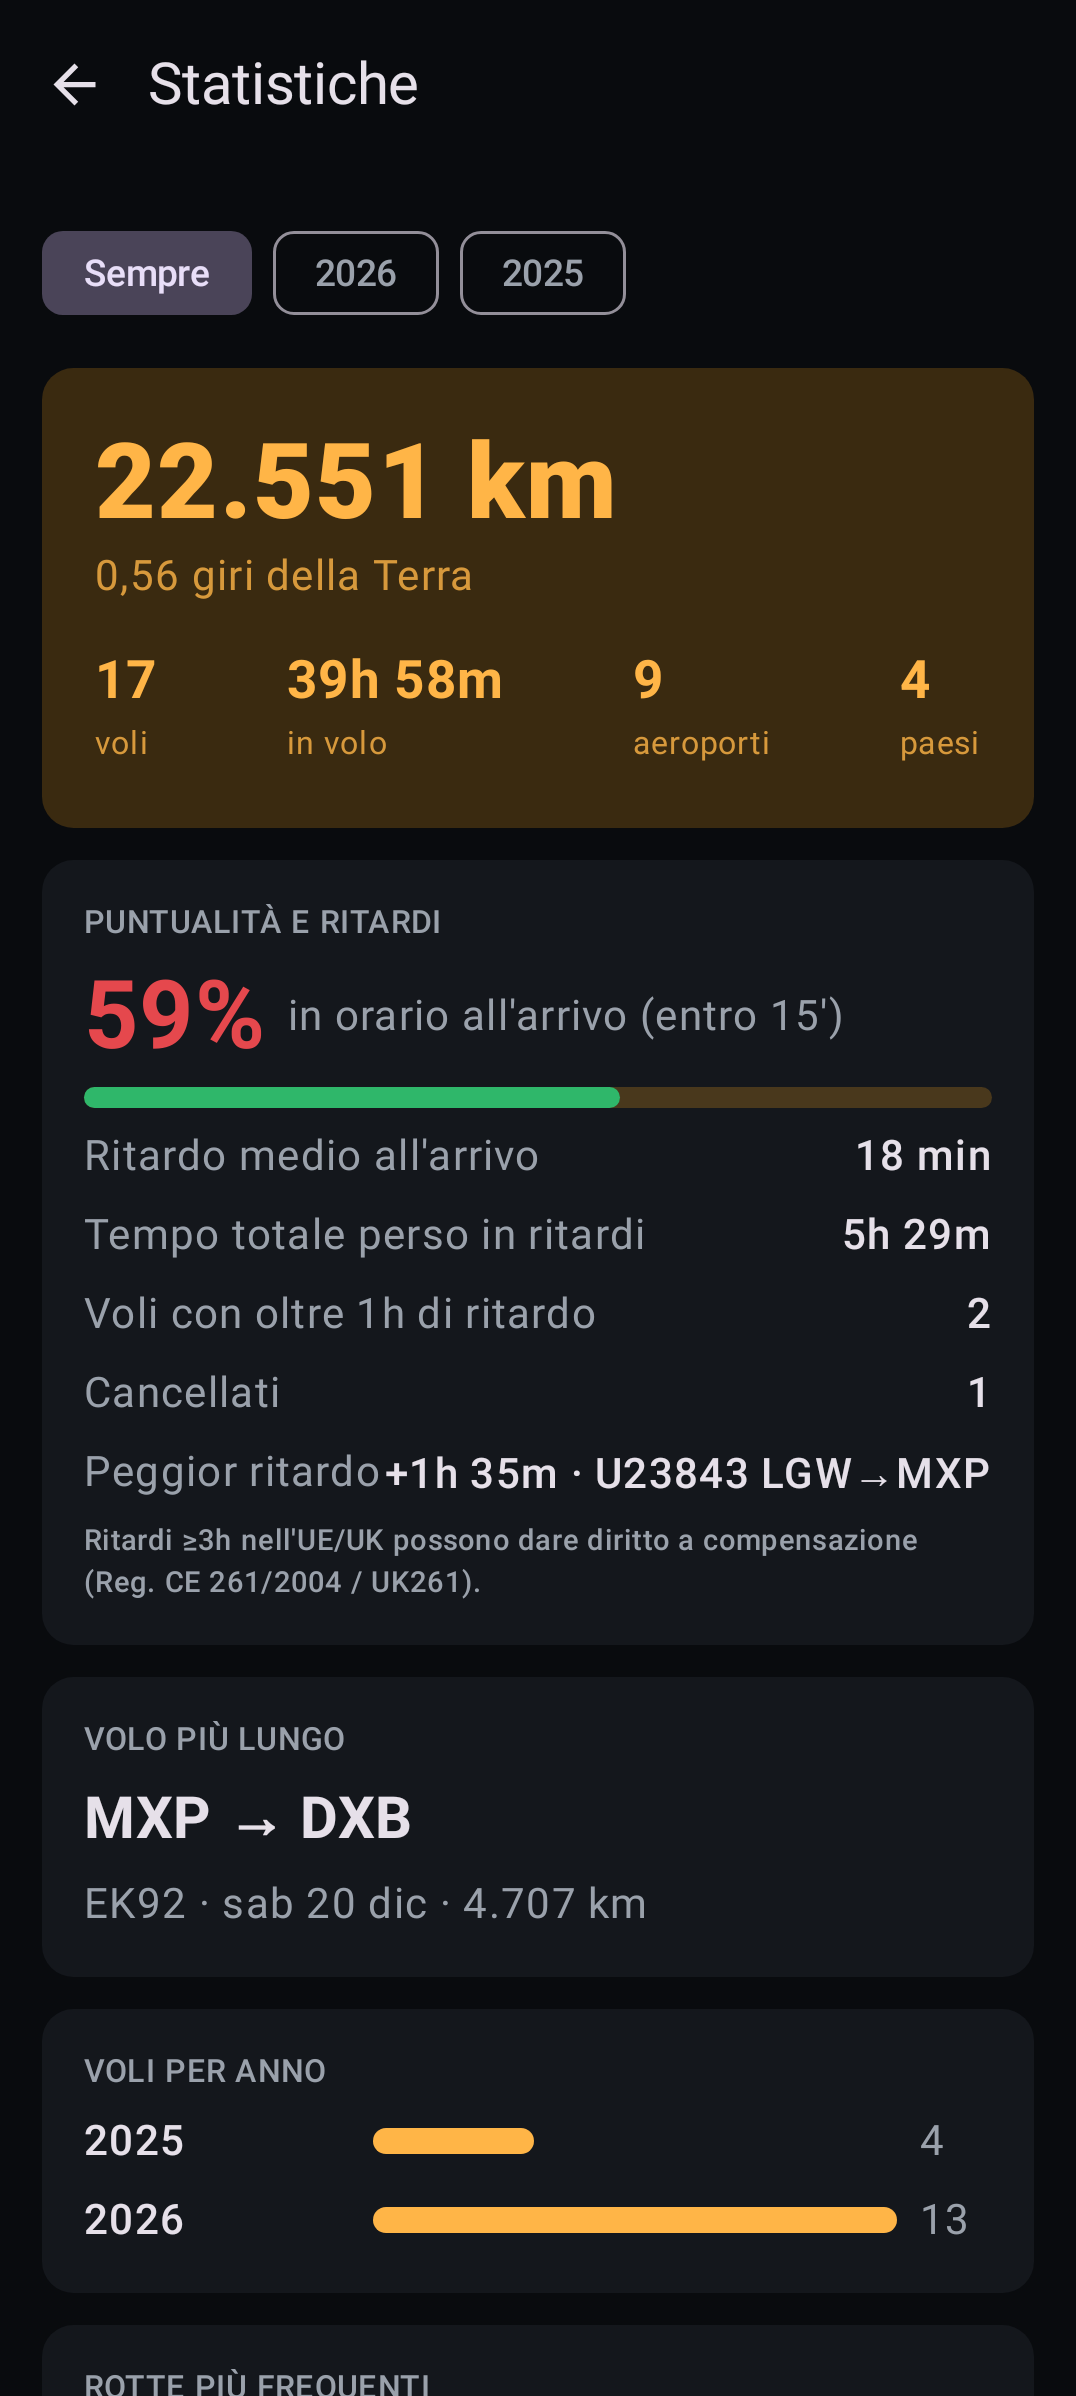
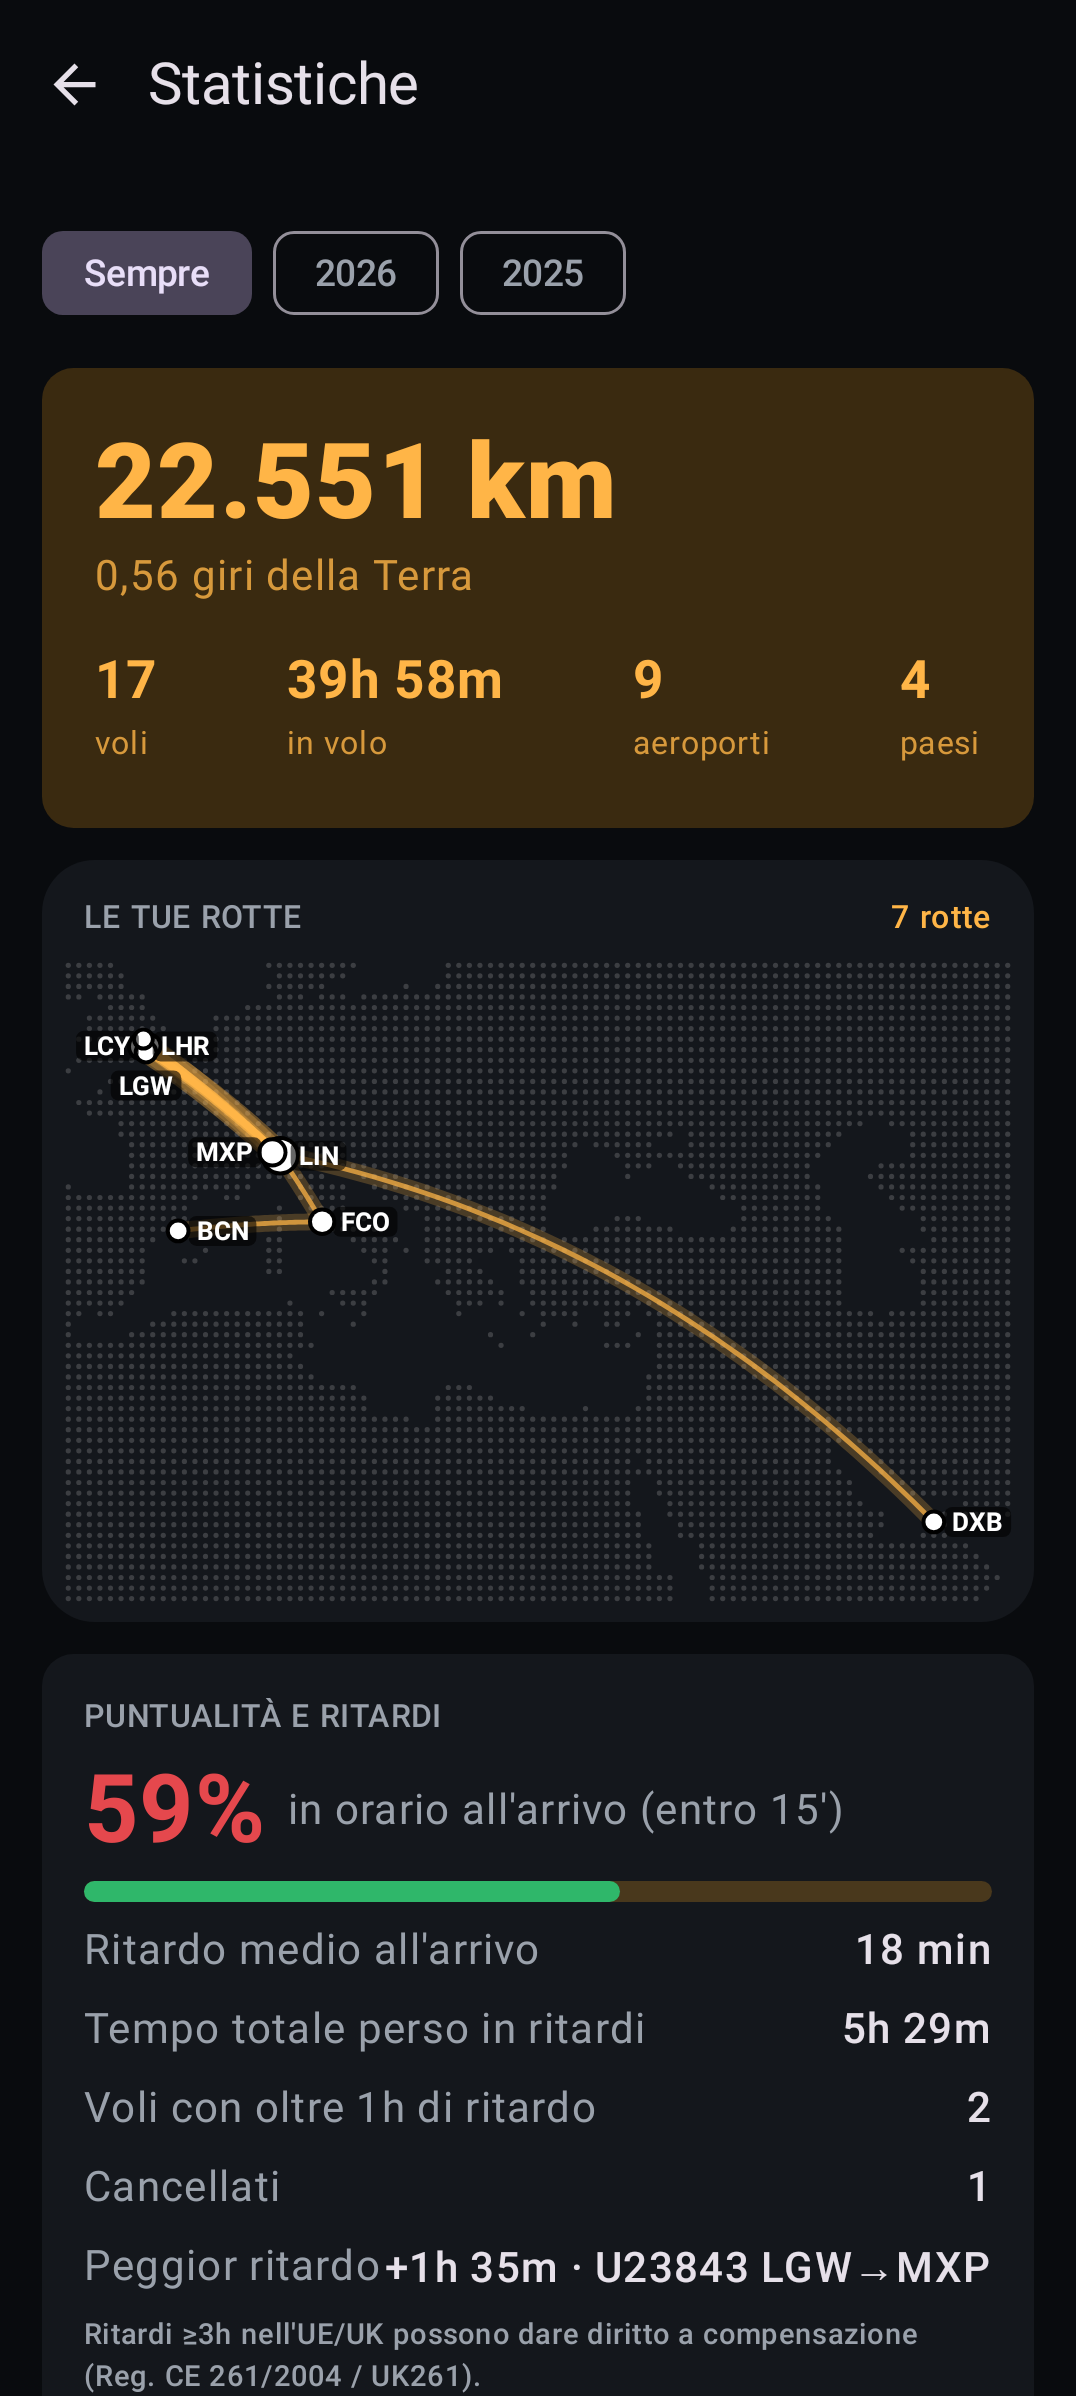
Statistiche: mappa di tutte le rotte (telefono e orologio)
- core: frameMany per inquadrare più rotte su un'unica mappa
- telefono: archi pesati per frequenza, aeroporti dimensionati per passaggi,
  etichette senza sovrapposizioni; segue il filtro per anno
- orologio: mini mappa delle rotte nelle statistiche

Claude-Session: https://claude.ai/code/session_01QZdUxbXicnFAc6JdaxwKK2

Changed region(s): [[0.0613, 0.3706, 0.9507, 0.6795], [0.0613, 0.7104, 0.9201, 1.0]]

diff --git a/kairos/mobile/src/main/java/digital/giacomello/kairos/mobile/ui/Design.kt b/kairos/mobile/src/main/java/digital/giacomello/kairos/mobile/ui/Design.kt
@@ -228,3 +228,80 @@ fun fadeToBottom(bg: Color) = Brush.verticalGradient(0f to Color.Transparent, 0.
 
 @Composable
 fun dpToPx(dp: Dp) = with(LocalDensity.current) { dp.toPx() }
+
+/**
+ * Mappa di tutte le rotte volate: archi più spessi e luminosi per le rotte più frequenti,
+ * aeroporti dimensionati per numero di passaggi, etichette sui più usati.
+ */
+@Composable
+fun AllRoutesMap(flights: List<Flight>, color: Color, modifier: Modifier = Modifier, maxLabels: Int = 8) {
+    val ctx = LocalContext.current
+    val measurer = rememberTextMeasurer()
+    val labelStyle = TextStyle(color = Color.White, fontSize = 10.sp, fontWeight = FontWeight.Bold)
+
+    // Rotte non orientate (A–B = B–A) con conteggio, aeroporti con conteggio
+    data class Route(val a: String, val b: String, val coords: Pair<digital.giacomello.kairos.geo.LatLng, digital.giacomello.kairos.geo.LatLng>, val n: Int)
+    val routes = remember(flights) {
+        flights.mapNotNull { f -> LandMask.coords(f)?.let { c -> Triple(listOf(f.departure.iata, f.arrival.iata).sorted(), c, f) } }
+            .groupBy { it.first }
+            .map { (k, v) ->
+                val c = v.first().second
+                val swapped = v.first().third.departure.iata != k[0]
+                Route(k[0], k[1], if (swapped) c.second to c.first else c, v.size)
+            }
+            .sortedBy { it.n } // le più frequenti disegnate sopra
+    }
+    val airports = remember(routes) {
+        routes.flatMap { r -> listOf(Triple(r.a, 0, r), Triple(r.b, 1, r)) }
+            .groupBy { it.first }
+            .map { (code, l) -> Triple(code, l.sumOf { it.third.n }, l.first()) }
+    }
+
+    BoxWithConstraints(modifier) {
+        val aspect = (constraints.maxWidth.toFloat() / constraints.maxHeight.coerceAtLeast(1)).coerceIn(0.5f, 4f)
+        val frame = remember(routes, aspect) { LandMask.get(ctx).frameMany(routes.map { it.coords }, aspect, 90, 0.1) }
+        Canvas(Modifier.fillMaxSize()) {
+            if (frame == null) return@Canvas
+            val w = size.width; val h = size.height
+            val dotR = (frame.dotStep * w * 0.28f).coerceIn(0.8f, 2.6f)
+            frame.land.forEach { drawCircle(Color.White.copy(alpha = 0.17f), dotR, Offset(it.x * w, it.y * h)) }
+            val maxN = routes.maxOfOrNull { it.n }?.toFloat() ?: 1f
+            routes.forEachIndexed { i, r ->
+                val pts = frame.paths[i]
+                val path = Path().apply { pts.forEachIndexed { j, p -> if (j == 0) moveTo(p.x * w, p.y * h) else lineTo(p.x * w, p.y * h) } }
+                val k = r.n / maxN
+                drawPath(path, color.copy(alpha = 0.15f + 0.2f * k), style = Stroke((4f + 6f * k).dp.toPx(), cap = StrokeCap.Round))
+                drawPath(path, color.copy(alpha = 0.55f + 0.45f * k), style = Stroke((1.2f + 1.6f * k).dp.toPx(), cap = StrokeCap.Round))
+            }
+            // Aeroporti: posizione presa dall'estremo dell'arco corrispondente
+            val maxA = airports.maxOfOrNull { it.second }?.toFloat() ?: 1f
+            val placed = airports.map { (code, n, ref) ->
+                val idx = routes.indexOf(ref.third)
+                val p = if (ref.second == 0) frame.paths[idx].first() else frame.paths[idx].last()
+                Triple(code, n, Offset(p.x * w, p.y * h))
+            }.sortedByDescending { it.second }
+            placed.forEach { (_, n, o) ->
+                val r = (2.5f + 3.5f * n / maxA).dp.toPx()
+                drawCircle(Color.Black, r + 1.5.dp.toPx(), o)
+                drawCircle(Color.White, r, o)
+            }
+            // Etichette sui più frequenti, evitando sovrapposizioni
+            val used = mutableListOf<androidx.compose.ui.geometry.Rect>()
+            placed.take(maxLabels).forEach { (code, _, o) ->
+                val t = measurer.measure(code, labelStyle)
+                val pad = 3.dp.toPx()
+                val candidates = listOf(
+                    Offset(o.x + 7.dp.toPx(), o.y - t.size.height / 2f), Offset(o.x - t.size.width - 7.dp.toPx(), o.y - t.size.height / 2f),
+                    Offset(o.x - t.size.width / 2f, o.y - t.size.height - 7.dp.toPx()), Offset(o.x - t.size.width / 2f, o.y + 7.dp.toPx()),
+                )
+                val pos = candidates.firstOrNull { c ->
+                    val rect = androidx.compose.ui.geometry.Rect(c.x - pad, c.y, c.x + t.size.width + pad, c.y + t.size.height)
+                    rect.left >= 0 && rect.right <= w && rect.top >= 0 && rect.bottom <= h && used.none { it.overlaps(rect) }
+                } ?: return@forEach
+                used += androidx.compose.ui.geometry.Rect(pos.x - pad, pos.y, pos.x + t.size.width + pad, pos.y + t.size.height)
+                drawRoundRect(Color.Black.copy(alpha = 0.6f), Offset(pos.x - pad, pos.y), Size(t.size.width + 2 * pad, t.size.height.toFloat()), CornerRadius(3.dp.toPx()))
+                drawText(t, topLeft = pos)
+            }
+        }
+    }
+}

diff --git a/kairos/core/src/main/java/digital/giacomello/kairos/geo/RouteMap.kt b/kairos/core/src/main/java/digital/giacomello/kairos/geo/RouteMap.kt
@@ -35,6 +35,9 @@ data class RouteFrame(
     }
 }
 
+/** Mappa con più rotte: terre a puntini e un percorso per rotta. */
+data class MultiFrame(val land: List<P>, val paths: List<List<P>>, val dotStep: Float)
+
 /**
  * Maschera terre emerse (Natural Earth 1:50m, pubblico dominio) su griglia di 0,25°,
  * 1440×720 bit = 130 KB in assets. Proiezione equirettangolare con correzione cos(lat).
@@ -88,6 +91,49 @@ class LandMask private constructor(private val bits: ByteArray) {
         }
         val path = gc.indices.map { proj(lats[it], lngs[it]) }
         return RouteFrame(land, path, path.first(), path.last(), (1.0 / dotsAcross).toFloat())
+    }
+
+    /**
+     * Mappa di più rotte insieme (es. "tutte le mie rotte"): inquadra tutti gli archi.
+     * @return terre a puntini + un percorso per rotta, nello stesso ordine di [routes].
+     */
+    fun frameMany(routes: List<Pair<LatLng, LatLng>>, aspect: Float, dotsAcross: Int = 80, padding: Double = 0.08): MultiFrame? {
+        if (routes.isEmpty()) return null
+        val arcs = routes.map { (a, b) -> greatCircle(a, b, 48) }
+        // Longitudini srotolate per arco, poi allineate al centro del primo arco (gestisce l'antimeridiano)
+        val ref = unwrap(arcs.first().map { it.lng }).average()
+        val unwrapped = arcs.map { arc ->
+            val l = unwrap(arc.map { it.lng }); val shift = Math.round((ref - l.average()) / 360.0) * 360.0
+            l.map { it + shift }
+        }
+        val allLats = arcs.flatten().map { it.lat }
+        val allLngs = unwrapped.flatten()
+        val midLat = (allLats.min() + allLats.max()) / 2
+        val kx = cos(midLat * PI / 180).coerceAtLeast(0.2)
+
+        var minX = allLngs.min() * kx; var maxX = allLngs.max() * kx
+        var minY = allLats.min(); var maxY = allLats.max()
+        var w = max(maxX - minX, (maxY - minY) * aspect).coerceAtLeast(14.0) * (1 + 2 * padding)
+        var h = w / aspect
+        if (h < (maxY - minY) * (1 + 2 * padding)) { h = (maxY - minY) * (1 + 2 * padding); w = h * aspect }
+        val cx = (minX + maxX) / 2; val cy = (minY + maxY) / 2
+        minX = cx - w / 2; maxX = cx + w / 2; minY = cy - h / 2; maxY = cy + h / 2
+        fun proj(lat: Double, lng: Double) = P(((lng * kx - minX) / w).toFloat(), ((maxY - lat) / h).toFloat())
+
+        val step = w / dotsAcross
+        val land = ArrayList<P>()
+        var y = maxY - step / 2
+        while (y > minY) {
+            var x = minX + step / 2
+            while (x < maxX) {
+                val lng = x / kx
+                if (y in -85.0..85.0 && isLand(y, normLng(lng))) land += proj(y, lng)
+                x += step
+            }
+            y -= step
+        }
+        val paths = arcs.indices.map { i -> arcs[i].indices.map { j -> proj(arcs[i][j].lat, unwrapped[i][j]) } }
+        return MultiFrame(land, paths, (1.0 / dotsAcross).toFloat())
     }
 
     companion object {

diff --git a/kairos/wear/src/main/java/digital/giacomello/kairos/ui/screens/Components.kt b/kairos/wear/src/main/java/digital/giacomello/kairos/ui/screens/Components.kt
@@ -121,3 +121,31 @@ fun WearRouteMap(f: Flight, progress: Float, color: Color, modifier: Modifier = 
         }
     }
 }
+
+/** Mini mappa di tutte le rotte per il polso. */
+@Composable
+fun WearAllRoutesMap(flights: List<Flight>, color: Color, modifier: Modifier = Modifier) {
+    val ctx = LocalContext.current
+    val routes = remember(flights) {
+        flights.mapNotNull { f -> LandMask.coords(f)?.let { listOf(f.departure.iata, f.arrival.iata).sorted() to it } }
+            .groupBy { it.first }.map { (_, v) -> v.first().second to v.size }
+    }
+    BoxWithConstraints(modifier) {
+        val aspect = (constraints.maxWidth.toFloat() / constraints.maxHeight.coerceAtLeast(1)).coerceIn(0.5f, 4f)
+        val frame = remember(routes, aspect) { LandMask.get(ctx).frameMany(routes.map { it.first }, aspect, 40, 0.1) }
+        Canvas(Modifier.fillMaxSize()) {
+            if (frame == null) return@Canvas
+            val w = size.width; val h = size.height
+            frame.land.forEach { drawCircle(Color.White.copy(alpha = 0.2f), 1.3.dp.toPx(), Offset(it.x * w, it.y * h)) }
+            val maxN = routes.maxOfOrNull { it.second }?.toFloat() ?: 1f
+            frame.paths.forEachIndexed { i, pts ->
+                val k = routes[i].second / maxN
+                for (j in 0 until pts.size - 1) drawLine(color.copy(alpha = 0.5f + 0.5f * k),
+                    Offset(pts[j].x * w, pts[j].y * h), Offset(pts[j + 1].x * w, pts[j + 1].y * h),
+                    strokeWidth = (1f + 1.5f * k).dp.toPx(), cap = StrokeCap.Round)
+                drawCircle(Color.White, 2.dp.toPx(), Offset(pts.first().x * w, pts.first().y * h))
+                drawCircle(Color.White, 2.dp.toPx(), Offset(pts.last().x * w, pts.last().y * h))
+            }
+        }
+    }
+}

diff --git a/kairos/mobile/src/main/java/digital/giacomello/kairos/mobile/ui/StatsScreen.kt b/kairos/mobile/src/main/java/digital/giacomello/kairos/mobile/ui/StatsScreen.kt
@@ -92,6 +92,25 @@ fun StatsContent(flights: List<Flight>, onBack: () -> Unit, initialYear: Int? = 
                 }
             }
 
+            // Mappa di tutte le rotte del periodo selezionato
+            val flown = remember(flights, year) {
+                flights.filter { it.status.isFinished && it.status != digital.giacomello.kairos.model.FlightStatus.CANCELED &&
+                    (year == null || it.date.take(4).toIntOrNull() == year) }
+            }
+            if (flown.isNotEmpty()) {
+                Card(Modifier.fillMaxWidth(), shape = RoundedCornerShape(20.dp),
+                    colors = CardDefaults.cardColors(containerColor = MaterialTheme.colorScheme.surfaceContainer)) {
+                    Column {
+                        Row(Modifier.fillMaxWidth().padding(start = 16.dp, end = 16.dp, top = 14.dp), verticalAlignment = Alignment.CenterVertically) {
+                            Text("LE TUE ROTTE", style = MaterialTheme.typography.labelMedium, color = MaterialTheme.colorScheme.onSurfaceVariant, modifier = Modifier.weight(1f))
+                            Text("${flown.map { listOf(it.departure.iata, it.arrival.iata).sorted() }.toSet().size} rotte",
+                                style = MaterialTheme.typography.labelMedium, color = MaterialTheme.colorScheme.primary)
+                        }
+                        AllRoutesMap(flown, MaterialTheme.colorScheme.primary, Modifier.fillMaxWidth().height(260.dp).padding(8.dp))
+                    }
+                }
+            }
+
             // Puntualità e ritardi
             Section {
                 Title("Puntualità e ritardi")

diff --git a/kairos/wear/src/main/java/digital/giacomello/kairos/ui/screens/StatsScreen.kt b/kairos/wear/src/main/java/digital/giacomello/kairos/ui/screens/StatsScreen.kt
@@ -4,12 +4,14 @@ import androidx.compose.foundation.layout.Arrangement
 import androidx.compose.foundation.layout.Column
 import androidx.compose.foundation.layout.Row
 import androidx.compose.foundation.layout.fillMaxWidth
+import androidx.compose.foundation.layout.height
 import androidx.compose.runtime.Composable
 import androidx.compose.runtime.getValue
 import androidx.compose.runtime.remember
 import androidx.compose.ui.Alignment
 import androidx.compose.ui.Modifier
 import androidx.compose.ui.text.font.FontWeight
+import androidx.compose.ui.unit.dp
 import androidx.compose.ui.unit.sp
 import androidx.lifecycle.compose.collectAsStateWithLifecycle
 import androidx.wear.compose.foundation.lazy.ScalingLazyColumn
@@ -47,6 +49,10 @@ fun StatsContent(flights: List<Flight>, initialItem: Int = 0) {
                     Text("${s.flights} voli · ${s.airMinutes / 60}h in volo", fontSize = 13.sp, color = MaterialTheme.colorScheme.onSurfaceVariant)
                     Text("${s.airports} aeroporti · ${s.countries} paesi", fontSize = 13.sp, color = MaterialTheme.colorScheme.onSurfaceVariant)
                 }
+            }
+            item {
+                val flown = remember(flights) { flights.filter { it.status.isFinished && it.status != digital.giacomello.kairos.model.FlightStatus.CANCELED } }
+                WearAllRoutesMap(flown, MaterialTheme.colorScheme.primary, Modifier.fillMaxWidth().height(110.dp))
             }
             item { ListHeader { Text("Ritardi") } }
             item {

diff --git a/kairos/wear/src/test/java/digital/giacomello/kairos/wear/WatchScreenshots.kt b/kairos/wear/src/test/java/digital/giacomello/kairos/wear/WatchScreenshots.kt
@@ -65,7 +65,9 @@ class WatchScreenshots {
 
     @Test fun stats() = shot("4-statistiche") { StatsContent(SampleData.flights) }
 
-    @Test fun statsDelays() = shot("4b-ritardi") { StatsContent(SampleData.flights, initialItem = 3) }
+    @Test fun statsMap() = shot("4a-mappa-rotte") { StatsContent(SampleData.flights, initialItem = 2) }
+
+    @Test fun statsDelays() = shot("4b-ritardi") { StatsContent(SampleData.flights, initialItem = 4) }
 
     @Test fun inFlight() = shot("3-in-volo") {
         FlightDetailContent(SampleData.airborne, null, refreshing = false, now = SampleData.airborneNow, onRefresh = {}, onRemove = {})
